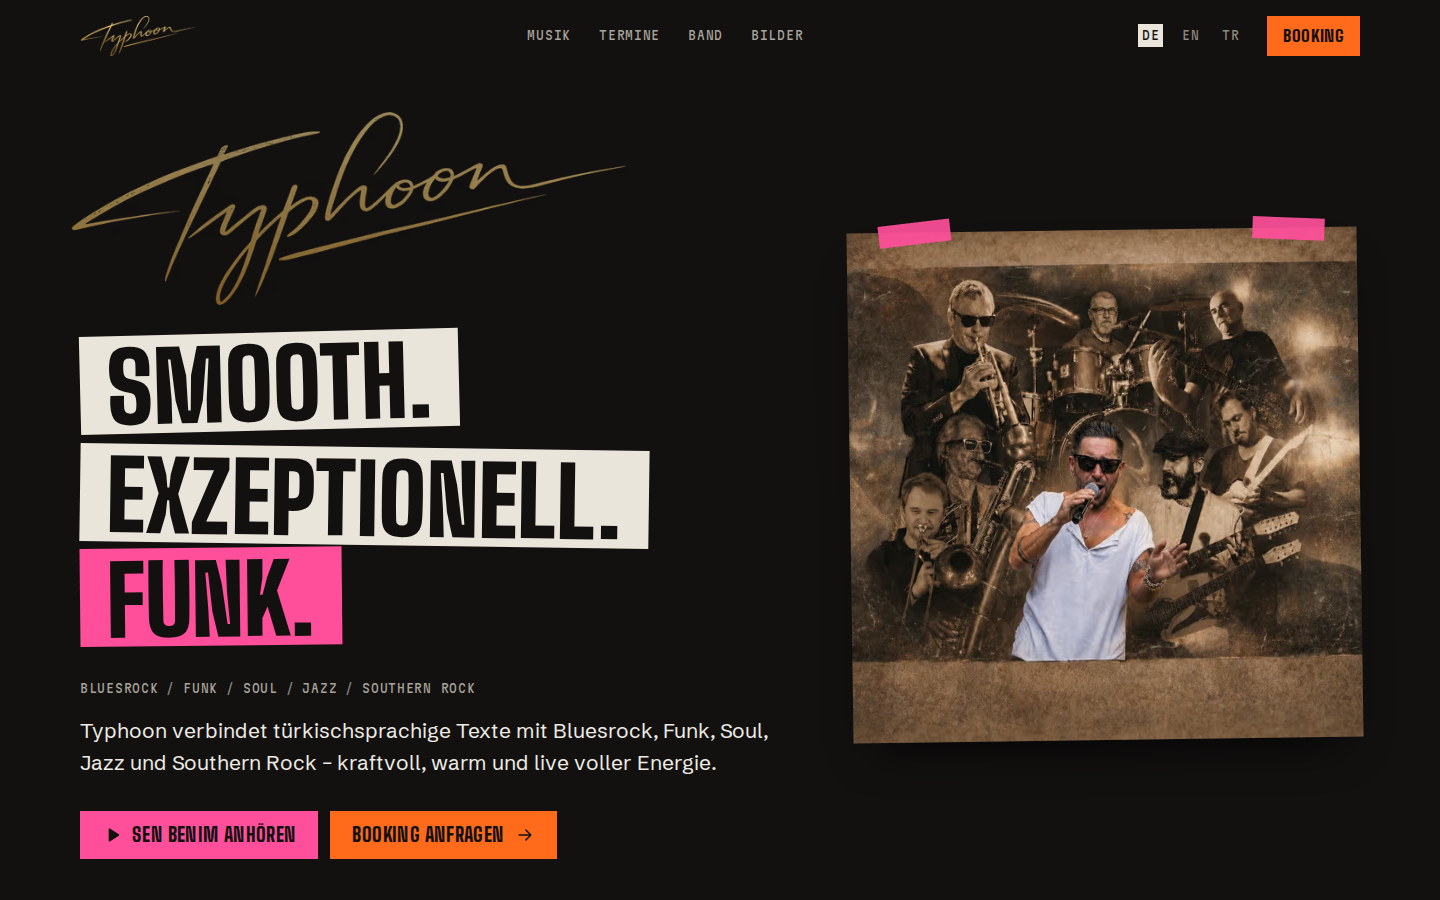
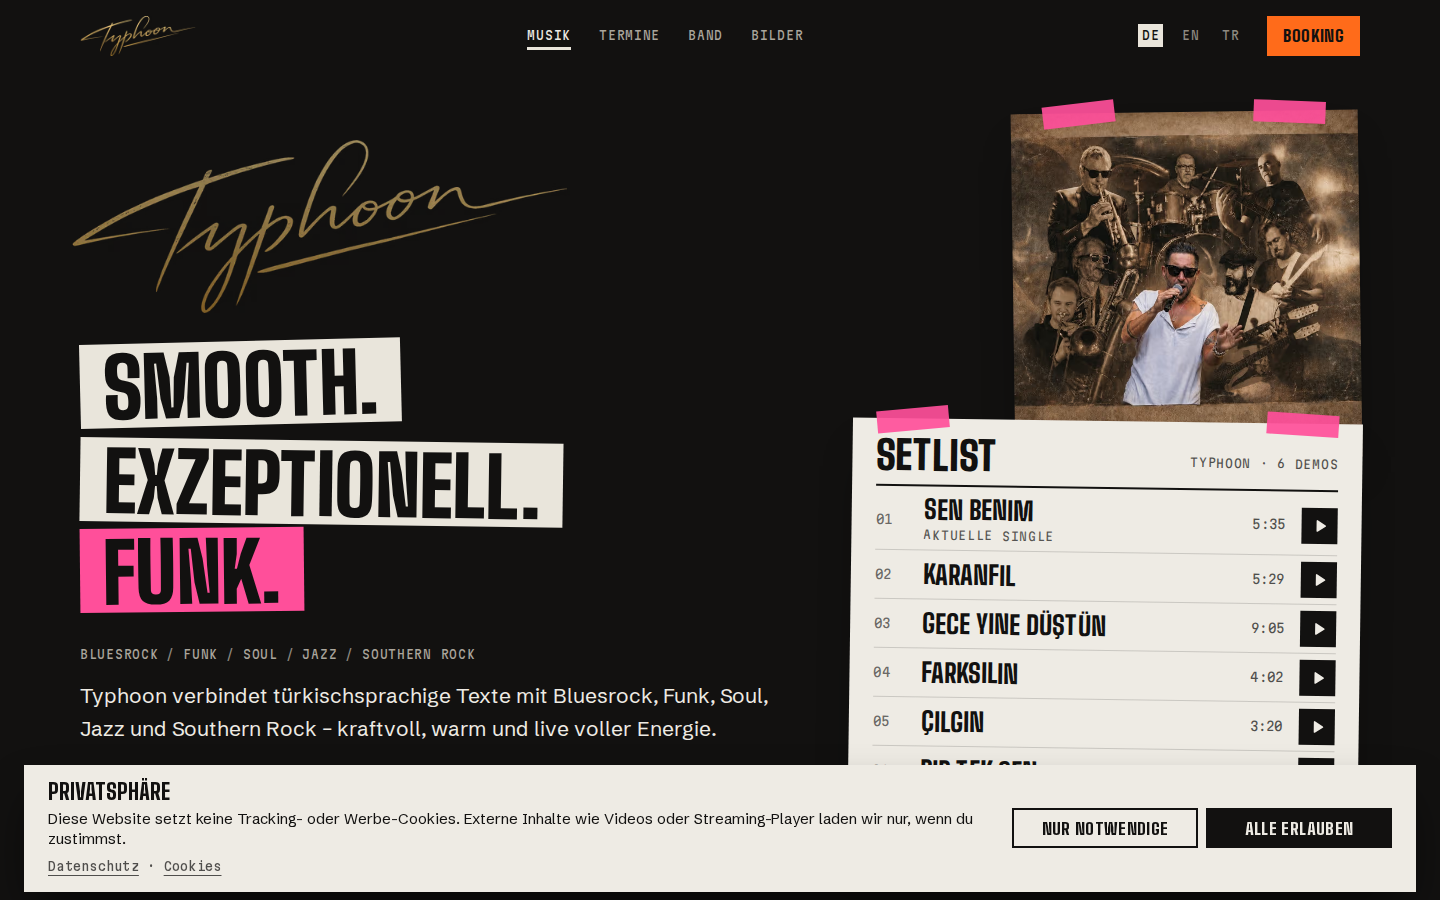
Version B: setlist back in the hero, taped over the band poster
Owner feedback: "Mir hat die Setlist im Header sehr gut gefallen".
The setlist sheet now sits in the hero, taped over the band collage's
bottom paper margin (covers at most ~13% of the poster height, so no
musician is hidden). The separate Music section is removed; platform
links sit under the sheet. Poster width and compact setlist rows at lg+
keep poster, setlist and both CTAs in the first viewport from 1024x768
to 1920x1080. DESIGN.md, README, VERSION-B notes, surface brief and
evidence screenshots updated.

Claude-Session: https://claude.ai/code/session_01HWLDszhS9HpbqQ6iP971dW

diff --git a/src/components/sections/Hero.tsx b/src/components/sections/Hero.tsx
@@ -1,16 +1,17 @@
 import Image from "next/image";
 import { PlayTrackButton } from "@/components/audio/PlayTrackButton";
-import type { SetlistTrack } from "@/components/audio/Setlist";
+import { Setlist, type SetlistTrack } from "@/components/audio/Setlist";
 import { Icon } from "@/components/ui/Icon";
 import type { Dict } from "@/i18n/dictionaries";
 import type { Locale } from "@/i18n/locales";
 
 // First viewport: the gold signature is the name, the tagline is laid as
-// three strips of tape, and the whole band is on the right — the band
+// three strips of tape, and on the right the whole band — the band
 // collage from Admin → Site assets (hero_image), taped up like a poster
-// and always shown whole (the band presents itself as a band, not as a
-// singer with backing musicians). The setlist follows in the next section;
-// the pink CTA plays the current single right here. Orange = booking.
+// and shown whole (the band presents itself as a band, not as a singer
+// with backing musicians) — with the setlist taped over the poster's
+// bottom paper margin only (~11% of its width), so no musician is covered.
+// Every setlist row plays. Orange = booking.
 
 function titleCase(line: string, locale: Locale) {
   const lower = line.toLocaleLowerCase(locale);
@@ -29,12 +30,16 @@ export function Hero({
   signatureUrl,
   imageUrl,
   featured,
+  tracks,
+  setlistFooter,
 }: {
   dict: Dict;
   locale: Locale;
   signatureUrl: string;
   imageUrl: string;
   featured: SetlistTrack | null;
+  tracks: SetlistTrack[];
+  setlistFooter?: React.ReactNode;
 }) {
   return (
     <section
@@ -47,7 +52,7 @@ export function Hero({
           <h1 id="hero-title">
             <Image
               alt="Typhoon"
-              className="h-auto w-[min(86%,480px)] -translate-x-[2%] lg:w-[min(80%,460px)] xl:w-[min(88%,560px)] short:w-[min(80%,400px)]"
+              className="h-auto w-[min(86%,480px)] -translate-x-[2%] lg:w-[min(80%,460px)] xl:w-[min(80%,500px)] short:w-[min(80%,400px)]"
               fetchPriority="high"
               height={724}
               priority
@@ -55,7 +60,7 @@ export function Hero({
               src={signatureUrl}
               width={2099}
             />
-            <span className="mt-6 flex flex-col items-start gap-2 font-stage text-[clamp(2.5rem,0.9rem+7vw,6rem)] lg:text-[4.25rem] xl:text-[clamp(2.5rem,0.9rem+7vw,6rem)] short:text-[4.25rem] font-black uppercase leading-[0.92] md:mt-8 short:mt-5">
+            <span className="mt-6 flex flex-col items-start gap-2 font-stage text-[clamp(2.5rem,0.9rem+7vw,6rem)] lg:text-[4.25rem] xl:text-[clamp(4.25rem,2rem+3.5vw,6rem)] short:text-[4.25rem] font-black uppercase leading-[0.92] md:mt-8 short:mt-5">
               {STRIPS.map((s, i) => (
                 <span
                   className={`lay ${s.tape} ${s.tilt} origin-left`}
@@ -89,20 +94,27 @@ export function Hero({
           </div>
         </div>
 
-        <figure className="relative mx-auto w-full max-w-[640px] lg:col-span-6 lg:max-w-none xl:col-span-5 lg:-rotate-[0.8deg]">
-          <span aria-hidden className="tape-piece -top-2.5 left-8 z-10 -rotate-6" />
-          <span aria-hidden className="tape-piece -top-2.5 right-8 z-10 rotate-3" />
-          <div className="relative aspect-square bg-deck-2 shadow-[0_24px_48px_-24px_rgba(0,0,0,0.9)]">
-            <Image
-              alt={dict.meta.ogAlt}
-              className="object-contain"
-              fill
-              priority
-              sizes="(min-width: 1280px) 40vw, (min-width: 1024px) 48vw, (min-width: 672px) 640px, 100vw"
-              src={imageUrl}
-            />
+        <div className="relative mx-auto w-full max-w-[640px] lg:col-span-6 lg:max-w-none xl:col-span-5">
+          {/* The poster's width sets how far the sheet may overlap it:
+              margin-top in % of the column width = 11% of the poster. */}
+          <figure className="relative ml-auto w-full lg:w-[62%] lg:-rotate-[0.8deg] xl:w-[68%] short:w-[52%]">
+            <span aria-hidden className="tape-piece -top-2.5 left-8 z-10 -rotate-6" />
+            <span aria-hidden className="tape-piece -top-2.5 right-8 z-10 rotate-3" />
+            <div className="relative aspect-square bg-deck-2 shadow-[0_24px_48px_-24px_rgba(0,0,0,0.9)]">
+              <Image
+                alt={dict.meta.ogAlt}
+                className="object-contain"
+                fill
+                priority
+                sizes="(min-width: 1280px) 30vw, (min-width: 1024px) 36vw, (min-width: 672px) 640px, 100vw"
+                src={imageUrl}
+              />
+            </div>
+          </figure>
+          <div className="relative z-10 -mt-[11%] lg:-mt-[6.8%] lg:rotate-[0.8deg] xl:-mt-[7.5%] short:-mt-[5.8%]" id="music">
+            <Setlist featuredId={featured?.id ?? null} footer={setlistFooter} tracks={tracks} />
           </div>
-        </figure>
+        </div>
       </div>
     </section>
   );

diff --git a/src/components/audio/Setlist.tsx b/src/components/audio/Setlist.tsx
@@ -54,7 +54,7 @@ function Row({
     <li className="border-t border-[rgba(18,17,16,0.16)] first:border-t-0" ref={rowRef}>
       <button
         aria-pressed={playing}
-        className="group grid w-full grid-cols-[1.75rem_minmax(0,1fr)_auto_2.75rem] items-center gap-x-3 py-2.5 text-left lg:py-1.5 xl:py-2.5 short:py-1.5 sm:grid-cols-[2rem_minmax(0,1fr)_auto_2.75rem] sm:gap-x-4"
+        className="group grid w-full grid-cols-[1.75rem_minmax(0,1fr)_auto_2.75rem] items-center gap-x-3 py-2.5 text-left sm:grid-cols-[2rem_minmax(0,1fr)_auto_2.75rem] sm:gap-x-4 lg:grid-cols-[2rem_minmax(0,1fr)_auto_2.25rem] lg:py-1.5"
         onClick={() => toggle(track.id, track.src)}
         type="button"
       >
@@ -63,7 +63,7 @@ function Row({
         </span>
         <span className="min-w-0">
           <span
-            className={`block font-stage [overflow-wrap:normal] text-[1.625rem] font-extrabold uppercase leading-[1.02] sm:text-[1.875rem] lg:text-[1.625rem] xl:text-[1.875rem] short:text-[1.625rem] ${
+            className={`block font-stage [overflow-wrap:normal] text-[1.625rem] font-extrabold uppercase leading-[1.02] sm:text-[1.875rem] lg:text-[1.625rem] ${
               isCurrent ? "" : "group-hover:underline group-hover:decoration-2 group-hover:underline-offset-4"
             }`}
           >
@@ -88,7 +88,7 @@ function Row({
         </span>
         <span
           aria-hidden
-          className={`inline-flex size-11 items-center justify-center transition-colors ${
+          className={`inline-flex size-11 items-center lg:size-9 justify-center transition-colors ${
             playing ? "bg-pink text-[#121110]" : "bg-[#121110] text-chalk group-hover:bg-pink group-hover:text-[#121110]"
           }`}
         >
@@ -100,7 +100,7 @@ function Row({
         </span>
       </button>
       {isCurrent ? (
-        <div className="on-light pb-3 pl-[calc(1.75rem+0.75rem)] pr-[calc(2.75rem+0.75rem)] sm:pl-[calc(2rem+1rem)] sm:pr-[calc(2.75rem+1rem)]">
+        <div className="on-light pb-3 pl-[calc(1.75rem+0.75rem)] pr-[calc(2.75rem+0.75rem)] sm:pl-[calc(2rem+1rem)] sm:pr-[calc(2.75rem+1rem)] lg:pr-[calc(2.25rem+1rem)]">
           <Waveform
             heightClass="h-9"
             label={fill(dict.player.seek, { title: track.title })}
@@ -133,10 +133,10 @@ export function Setlist({
       <span aria-hidden className="tape-piece -top-2.5 right-6 rotate-3" />
       <section
         aria-labelledby="setlist-title"
-        className="bg-chalk px-4 pb-4 pt-6 text-[#121110] shadow-[0_24px_48px_-24px_rgba(0,0,0,0.8)] sm:px-6 sm:pt-7 lg:pb-3 lg:pt-5 xl:pb-4 xl:pt-7 short:pb-3 short:pt-5"
+        className="bg-chalk px-4 pb-4 pt-6 text-[#121110] shadow-[0_24px_48px_-24px_rgba(0,0,0,0.8)] sm:px-6 sm:pt-7 lg:pb-3 lg:pt-5"
       >
         <header className="flex items-end justify-between gap-4 border-b-2 border-[#121110] pb-3">
-          <h2 className="font-stage text-[2.5rem] font-black uppercase leading-[0.85] sm:text-[3rem] lg:text-[2.5rem] xl:text-[3rem] short:text-[2.5rem]" id="setlist-title">
+          <h2 className="font-stage text-[2.5rem] font-black uppercase leading-[0.85] sm:text-[3rem] lg:text-[2.5rem]" id="setlist-title">
             {dict.stage.setlist}
           </h2>
           <p className="mono-cap pb-1 text-right text-[rgba(18,17,16,0.72)]">

diff --git a/src/app/[locale]/(site)/page.tsx b/src/app/[locale]/(site)/page.tsx
@@ -4,7 +4,6 @@ import { Band } from "@/components/sections/Band";
 import { Booking } from "@/components/sections/Booking";
 import { Gallery } from "@/components/sections/Gallery";
 import { Hero } from "@/components/sections/Hero";
-import { Music } from "@/components/sections/Music";
 import { Shows, splitShows } from "@/components/sections/Shows";
 import { PlatformLinks } from "@/components/site/PlatformLinks";
 import { getDict } from "@/i18n/dictionaries";
@@ -92,19 +91,15 @@ export default async function HomePage({
         featured={featured}
         imageUrl={content.hero.imageUrl}
         locale={locale}
-        signatureUrl={content.hero.signatureUrl}
-      />
-      <Music
-        dict={dict}
-        featuredId={featured?.id ?? null}
-        platforms={
+        setlistFooter={
           content.platformLinks.length > 0 ? (
-            <div className="flex flex-col gap-3">
+            <div className="mt-5 flex flex-col gap-3 sm:flex-row sm:items-center">
               <p className="mono-cap text-chalk-2">{dict.music.alsoOn}</p>
               <PlatformLinks links={content.platformLinks} />
             </div>
           ) : null
         }
+        signatureUrl={content.hero.signatureUrl}
         tracks={tracks}
       />
       <Shows dict={dict} locale={locale} shows={content.shows} />

diff --git a/DESIGN.md b/DESIGN.md
@@ -268,7 +268,7 @@ All three are self-hosted through next/font with latin-ext, for Turkish ğ ı ş
 - **Display** (900, clamp 2.5 to 6rem, fixed at 4.25rem at lg, line-height 0.92, uppercase): only the hero tagline strips, set on tape.
 - **Headline** (800, clamp 2.75 to 6rem, line-height 0.9, -0.01em, uppercase, balanced): section headings (`h-stage`), the 404 heading (no label above it), and legal titles.
 - **Headline small** (800, clamp 1.75 to 2.75rem, line-height 0.95): sub-section headings such as the line-up heading.
-- **Title** (800 to 900, 1.375 to 3rem, line-height 0.85 to 1.02, uppercase): setlist song titles (1.625rem, 1.875rem from sm), the setlist sheet heading (2.5/3rem), show venues, musician names, the dock title, sheet headings, and the line-up name tapes.
+- **Title** (800 to 900, 1.375 to 3rem, line-height 0.85 to 1.02, uppercase): setlist song titles (1.625rem, 1.875rem from sm, 1.625rem from lg), the setlist sheet heading (2.5/3rem, 2.5rem from lg), show venues, musician names, the dock title, sheet headings, and the line-up name tapes.
 - **Body large** (400, clamp 1.125 to 1.3125rem, line-height 1.55, chalk, max 58ch): intro sentences.
 - **Body** (400, 1.0625rem, line-height 1.6, chalk-2, max 62ch, pretty wrap): running copy. The base size is 16px/1.55.
 - **Small / Fine** (400, 0.9375rem / 0.875rem): member bios, the setlist note, reply time, form privacy note, consent text, footer meta. Never smaller than 0.875rem for sentences; inputs stay at 16px (no iOS zoom).
@@ -285,8 +285,8 @@ All three are self-hosted through next/font with latin-ext, for Turkish ğ ı ş
 
 - **Shell:** max 1360px, with side padding of 16px, 24px from 640px, and 40px from 1024px. Sections use `block-y` padding (72px, 112px from 768px) and are separated by a `rule` top border.
 - **Grid:** a 12-column grid from lg. Content sections split 7/5 (Shows) or 5/7 (Band).
-- **Hero:** the band comes first (owner, 2026-09-27: "wie eine Band wirken, nicht ein Künstler mit Band"). Left: gold signature, tagline tape strips, genre line, one sentence, pink play CTA + orange booking CTA. Right: the band collage from Admin → Site assets (`hero_image`) as a square poster taped up with two pink pieces, `object-contain` so every musician stays visible, rotated -0.8° from lg. Stacked below lg (poster after the CTAs); 6/6 at lg; 7/5 at xl. The `short` screen (≥1024px wide, <880px tall) keeps the compact tagline size. No photo of a single member in the hero.
-- **Music:** directly after the hero: heading + intro (+ platform links) left (5 cols), the setlist sheet right (7 cols, rotated 0.8°); stacked on mobile.
+- **Hero:** the band comes first (owner, 2026-09-27: "wie eine Band wirken, nicht ein Künstler mit Band"). Left: gold signature, tagline tape strips, genre line, one sentence, pink play CTA + orange booking CTA. Right: the band collage from Admin → Site assets (`hero_image`) as a square poster taped up with two pink pieces, `object-contain` so every musician stays visible, rotated -0.8° from lg — and the **setlist sheet taped over the poster's bottom paper margin** (owner, 2026-09-27: "Mir hat die Setlist im Header sehr gut gefallen"), rotated +0.8°. The negative top margin is set in % of the column width so the sheet covers at most ~13% of the poster height (the collage's paper margin is ~16%): no musician is ever covered. Poster width: full below lg, 62% at lg, 68% at xl, 52% on the `short` screen (≥1024px wide, <880px tall), which also keeps the compact tagline size. Poster + setlist + CTAs fit the first viewport from 1024x768 to 1920x1080. Stacked below lg (poster, then setlist, after the CTAs); 6/6 at lg; 7/5 at xl. No photo of a single member in the hero. The hero column carries `id="music"` (nav target "Musik").
+- **No separate Music section:** the setlist lives in the hero; platform links ("Auch auf") sit under the sheet.
 - **Shows:** list or honest empty state, max 880px wide, no poster (the collage now lives in the hero).
 - **Header:** 64px tall, 72px from md. The small gold signature sits left on every page and scroll position (the bar never reads empty). Mono nav from lg, with a hamburger menu below lg. The locale switcher and Booking button appear from sm.
 - **Player dock:** fixed to the bottom at 76px. It writes `--dock-h` so the body and the consent banner clear it. Previous/volume controls hide at the smaller breakpoints (xs/lg).
@@ -325,7 +325,7 @@ A flat, matte, square-cut strip in one colour with stage-ink text. Padding is 0.
 - **Transitions:** 160ms `cubic-bezier(0.16,1,0.3,1)`. Focus is a 2px chalk outline offset 3px (ink on chalk paper).
 
 ### Setlist sheet (signature)
-A chalk sheet held by two pink tape pieces, with an ink 2px header rule and numbered rows (mono index, title, mono duration, and a 44px ink play square that turns pink when playing or hovered). The current row's title gets pink tape and carries `data-live`, and a seekable waveform opens under it (`on-light`: ink bars played, 28% ink unplayed).
+A chalk sheet held by two pink tape pieces, with an ink 2px header rule and numbered rows (mono index, title, mono duration, and an ink play square (44px; 36px from lg, where the whole row is the button) that turns pink when playing or hovered). The current row's title gets pink tape and carries `data-live`, and a seekable waveform opens under it (`on-light`: ink bars played, 28% ink unplayed).
 
 ### Line-up cards
 One card per member from live data: a 4:5 photo in one monochrome treatment (`grayscale` + `contrast(1.08)`, so colour snapshots and sepia crops read as one set; colour lives on the tapes), the name on gaffer tape overlapping the photo's bottom edge (alternating ±0.8° tilt), the role on green tape, and the short bio in chalk-2. **No stage positions or stage plot:** the band has no fixed placement on stage (owner, 2026-09-25), so nothing may suggest one.

diff --git a/docs/redesign/VERSION-B.md b/docs/redesign/VERSION-B.md
@@ -77,9 +77,9 @@ off under reduced motion.
 | Area | Live site (`main`) | Version A (redesign branch) | Version B (this branch) |
 |---|---|---|---|
 | World | dark sepia/gold, handoff layout | cinematic record sleeve: sepia photos, antique gold, Newsreader serif + Archivo | stage floor: deck black, gaffer tape, spike-tape roles; Big Shoulders + Schibsted + Martian Mono |
-| First screen | collage + serif headline, player card below | collage with signature bleeding into a featured player | big gold signature, tagline laid as three tape strips, **setlist with all six songs** taped over a colour live photo; play + booking CTAs |
+| First screen | collage + serif headline, player card below | collage with signature bleeding into a featured player | big gold signature, tagline laid as three tape strips, band collage as a taped poster with the **setlist of all demos** taped over its bottom margin; play + booking CTAs |
 | Music | featured player + list | featured player + record-sleeve tracklist (4 + "show all") | the setlist *is* the tracklist; the active row shows a waveform and pink tape; persistent dock |
-| Shows | TBA placeholder cards | list / honest empty state | dates on blue tape next to the **band poster** (admin hero image, always shown whole); honest empty state → booking |
+| Shows | TBA placeholder cards | list / honest empty state | dates on blue tape; honest empty state → booking |
 | Band | image + text, member cards | editorial split + member cards with bios | statement headline, story, rider-style facts, member cards with name on gaffer tape, instrument on green tape and bio |
 | Photos | grid + lightbox | contact sheet + viewer | taped contact sheet with frame numbers + the same viewer |
 | Booking | form | facts + poster + form | rider: orange tape heading, facts, direct line, form with a **live request preview above submit**; errors re-check while typing |
@@ -183,8 +183,12 @@ pass**
 
 - **Band first:** the hero now shows the band collage (Admin → Site assets →
   hero image), whole, as a taped poster. The singer's single photo left the
-  hero; the setlist moved to its own "Hör rein" section right after it.
-  Termine no longer repeats the collage.
+  hero; Termine no longer repeats the collage.
+- **Setlist back in the hero** (owner: "Mir hat die Setlist im Header sehr
+  gut gefallen"): the sheet is taped over the poster's bottom paper margin
+  (covers ≤13% of the poster height, never a musician); the separate music
+  section is gone. Poster, setlist and both CTAs fit the first viewport at
+  1024x768, 1166x830, 1280x800, 1366x768, 1440x900, 1536x864 and 1920x1080.
 - **Line-up can grow:** Malvin (Keys & Klavier) is in the repo line-up and
   shows on the live site even before he has a DB row. Admin → Members can
   now add musicians ("Neues Mitglied"), edit and hide everyone, and delete
@@ -209,7 +213,7 @@ pass**
   production Supabase and Resend, so **do not send test bookings there**.
 - The live gallery (Admin → Media) repeats frames:
   - the singer photo appears twice
-  - the band collage is also the Termine poster
+  - the band collage is also the hero poster
 
   Removing the duplicates makes the contact sheet stronger.
 - Line-up slot 8 (live: "Tan – Percussion") and the live bio typos

diff --git a/README.md b/README.md
@@ -61,7 +61,7 @@ src/
       layout.tsx                # root layout: <html lang>, fonts (Big Shoulders + Schibsted Grotesk + Martian Mono), metadata, DictProvider
       (site)/                   # public site (route group, URLs unchanged)
         layout.tsx              # AudioPlayerProvider, Header, Footer, PlayerDock, ConsentBanner, MotionInit, LiveLevel
-        page.tsx                # one-pager: Hero (band poster) → Music (setlist) → Shows → Band/Line-up → Photos → Booking
+        page.tsx                # one-pager: Hero (band poster + setlist) → Shows → Band/Line-up → Photos → Booking
         legal/{imprint,privacy,cookies}/page.tsx  # Admin Markdown or curated fallback (src/content/legal.ts)
         not-found.tsx, [...rest]/page.tsx         # styled 404
       admin/                    # protected Admin (own chrome, noindex)
@@ -75,7 +75,7 @@ src/
     audio/                      # AudioPlayerProvider, Waveform, Setlist, PlayerDock, PlayTrackButton, LiveLevel
     consent/                    # consent contract, ConsentBanner, ExternalMediaGate, settings button
     legal/                      # LegalShell (safe renderer), LegalPage (shared server view)
-    sections/                   # Hero, Music, Shows, Band, Lineup, Gallery, Booking, BookingForm
+    sections/                   # Hero, Shows, Band, Lineup, Gallery, Booking, BookingForm
     site/                       # Header, Footer, LocaleSwitcher, PlatformLinks, MotionInit
     ui/                         # Icon set
   content/legal.ts              # fallback legal texts DE/EN/TR (not legal advice)
@@ -486,7 +486,7 @@ repo assets and never reaches Storage.
   with members and `MusicEvent` for upcoming dated shows.
 - `/[locale]/admin/platform-links` — Spotify, YouTube, Instagram, Facebook,
   SoundCloud, Bandcamp. Active rows appear automatically in the footer and
-  as "Also on" links in the music section; none → the blocks are hidden.
+  as "Also on" links under the hero setlist; none → the blocks are hidden.
 - Consent: first visit shows a small non-blocking notice; the footer button
   "Datenschutz-Einstellungen" reopens it as a dialog (focus trap, Esc).
   Stored only in `localStorage` (`typhoon.consent.v1`; the old key

diff --git a/.impeccable/surfaces/src-app-locale-site-page-tsx.md b/.impeccable/surfaces/src-app-locale-site-page-tsx.md
@@ -35,6 +35,7 @@ FINISH: unreviewed and undocumented is unfinished; this build ends with the fini
 - The admin hero image (band collage, must stay whole) is the band poster in Shows; the first viewport's photo plate is the live colour photo `public/assets/band-cards/typhoon-band-card.jpg`.
 - Booking section sits on deck black; orange = heading tape + submit.
 - Owner 2026-09-27 ("Mobil sieht es gut aus, aber im Browser ist die Landing Page komisch"): desktop now uses the mobile composition — photo as a landscape band, setlist taped over its lower edge — plus a height-aware `short` variant for laptop screens; the header shows the small signature at all times (an empty left header read as broken).
+- Owner 2026-09-27 ("Mir hat die Setlist im Header sehr gut gefallen"): the setlist is back in the hero, taped over the band poster's bottom paper margin (≤13% of the poster height, % of column width so it scales); no separate Music section. Poster 62% (lg) / 68% (xl) / 52% (short) of its column; setlist play squares 36px from lg so poster + sheet + CTAs fit 1024x768 → 1920x1080.
 - Line-up photos get one monochrome treatment (grayscale + contrast) so colour snapshots and sepia crops read as one set.
 - Owner 2026-09-25: "Die Bühnen-Aufstellung ist hässlich und stimmt nicht, wir haben keine feste Bühnen-Aufstellung." The stage plot is removed; the line-up is a row of taped member cards (photo, name on gaffer, role on green tape, bio). Never show stage positions.
 
